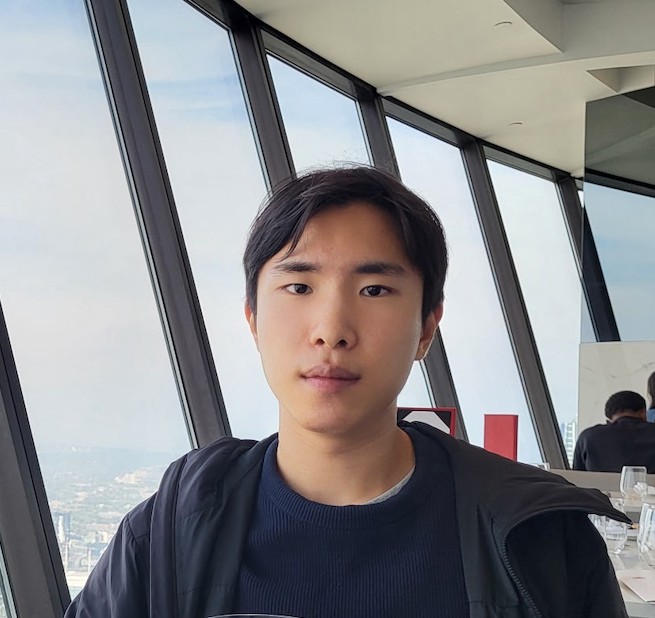
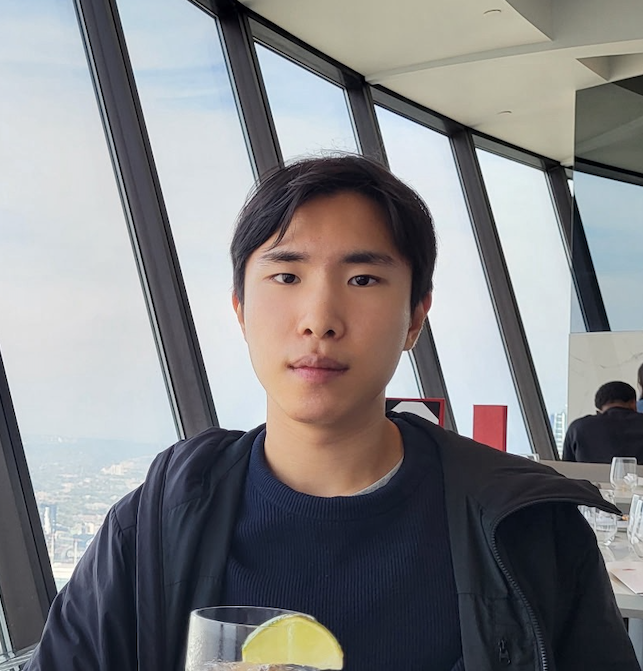
Updated profile

diff --git a/index.html b/index.html
@@ -221,7 +221,7 @@
       font-size:14px;
       line-height:1.3;
     }
-    .portrait { max-width:240px; }
+    .portrait { max-width:240px; aspect-ratio:4 / 5; object-fit:cover; object-position:50% 45%; }
     .route:not(#home) .card h3 {
       background:transparent;
       color:var(--fg);
@@ -338,7 +338,7 @@
     <section id="home" class="route active" aria-label="Home">
       <!-- Hero -->
       <section class="hero" id="about" aria-label="About Jamie">
-        <img class="portrait" src="images/jamie-profile.png" alt="Jamie Kang" width="655" height="618" />
+        <img class="portrait" src="images/jamie-profile.png" alt="Jamie Kang" width="643" height="671" />
         <div class="hero-about">
           
           <h1>About</h1>
